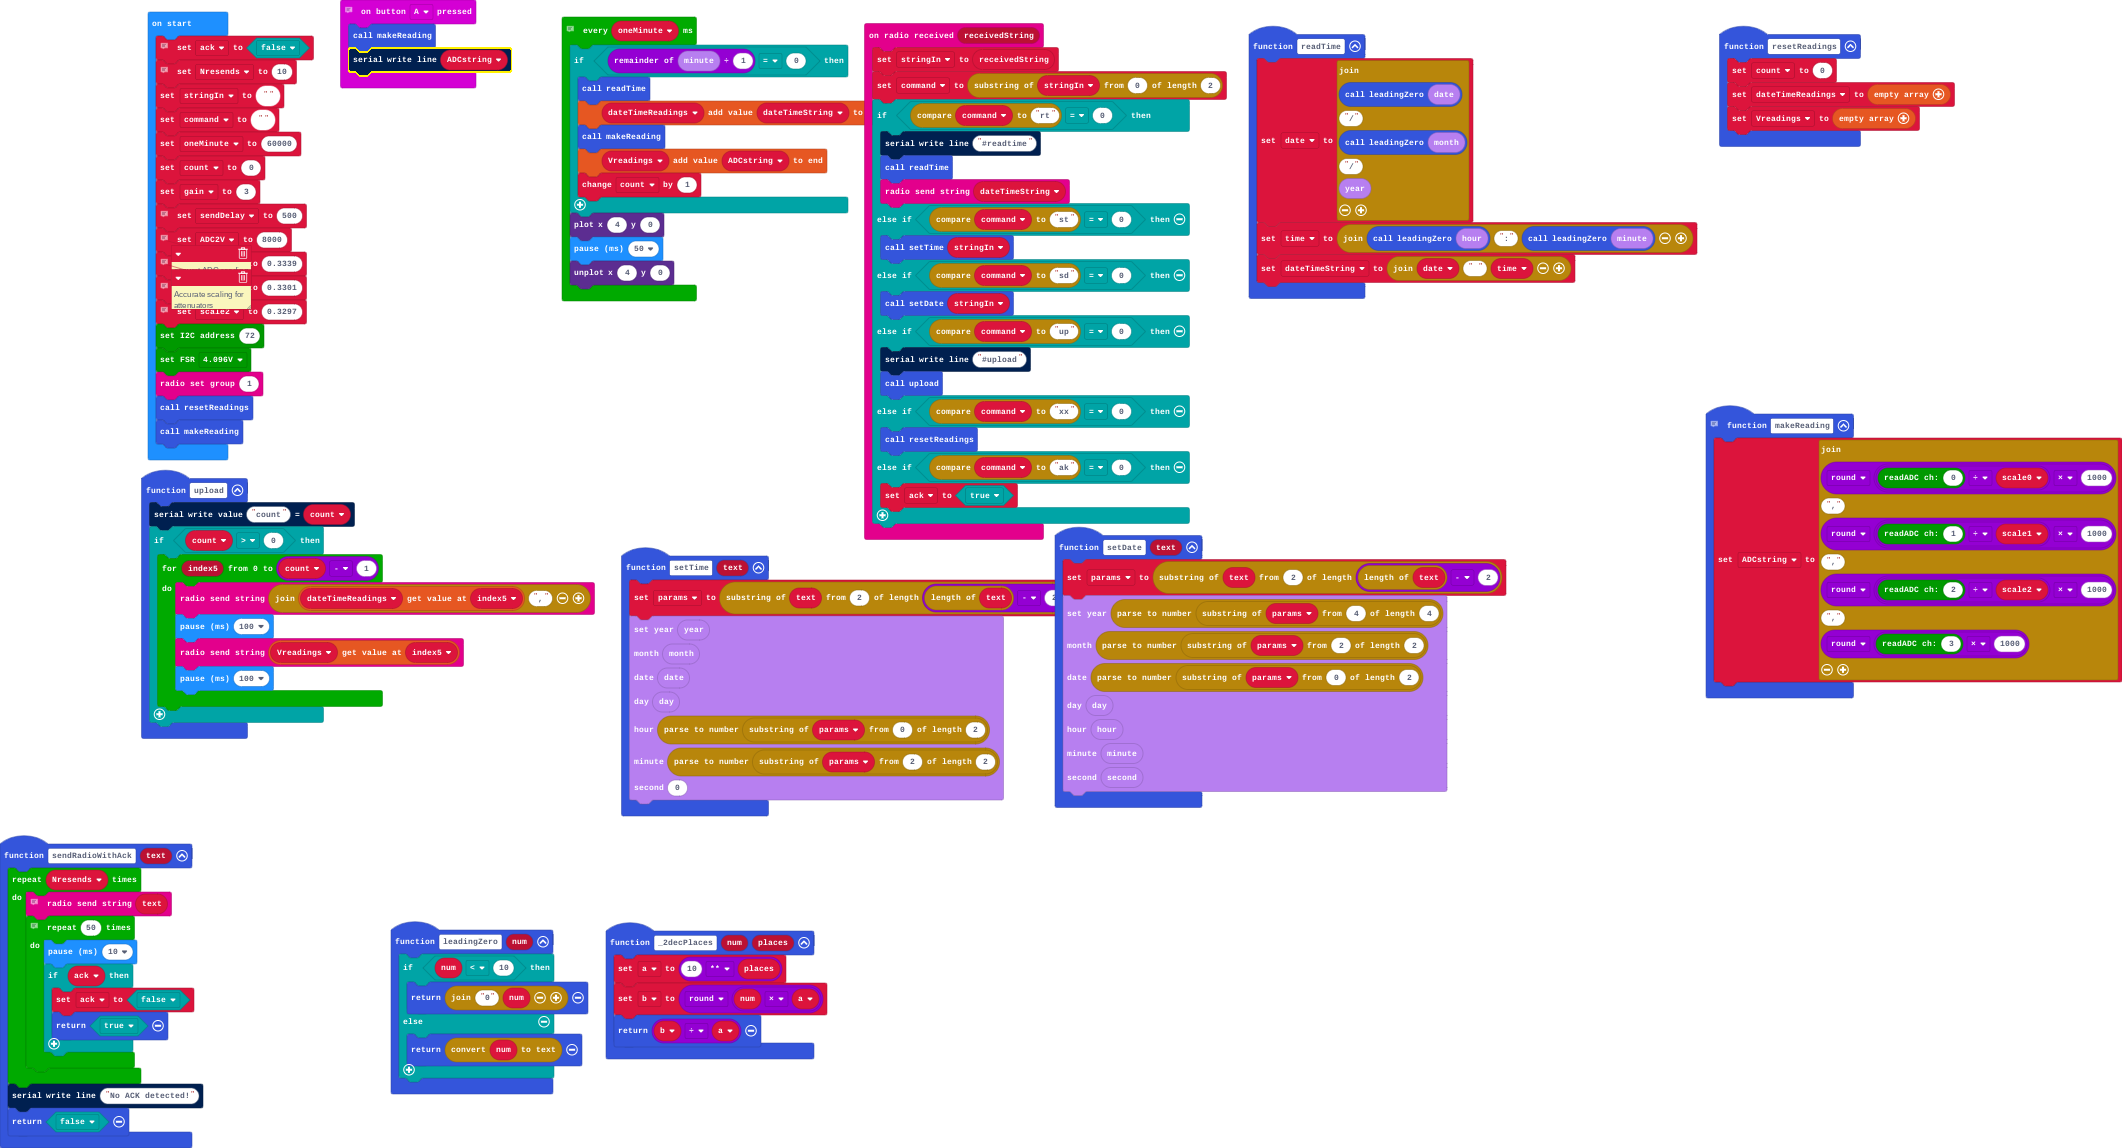
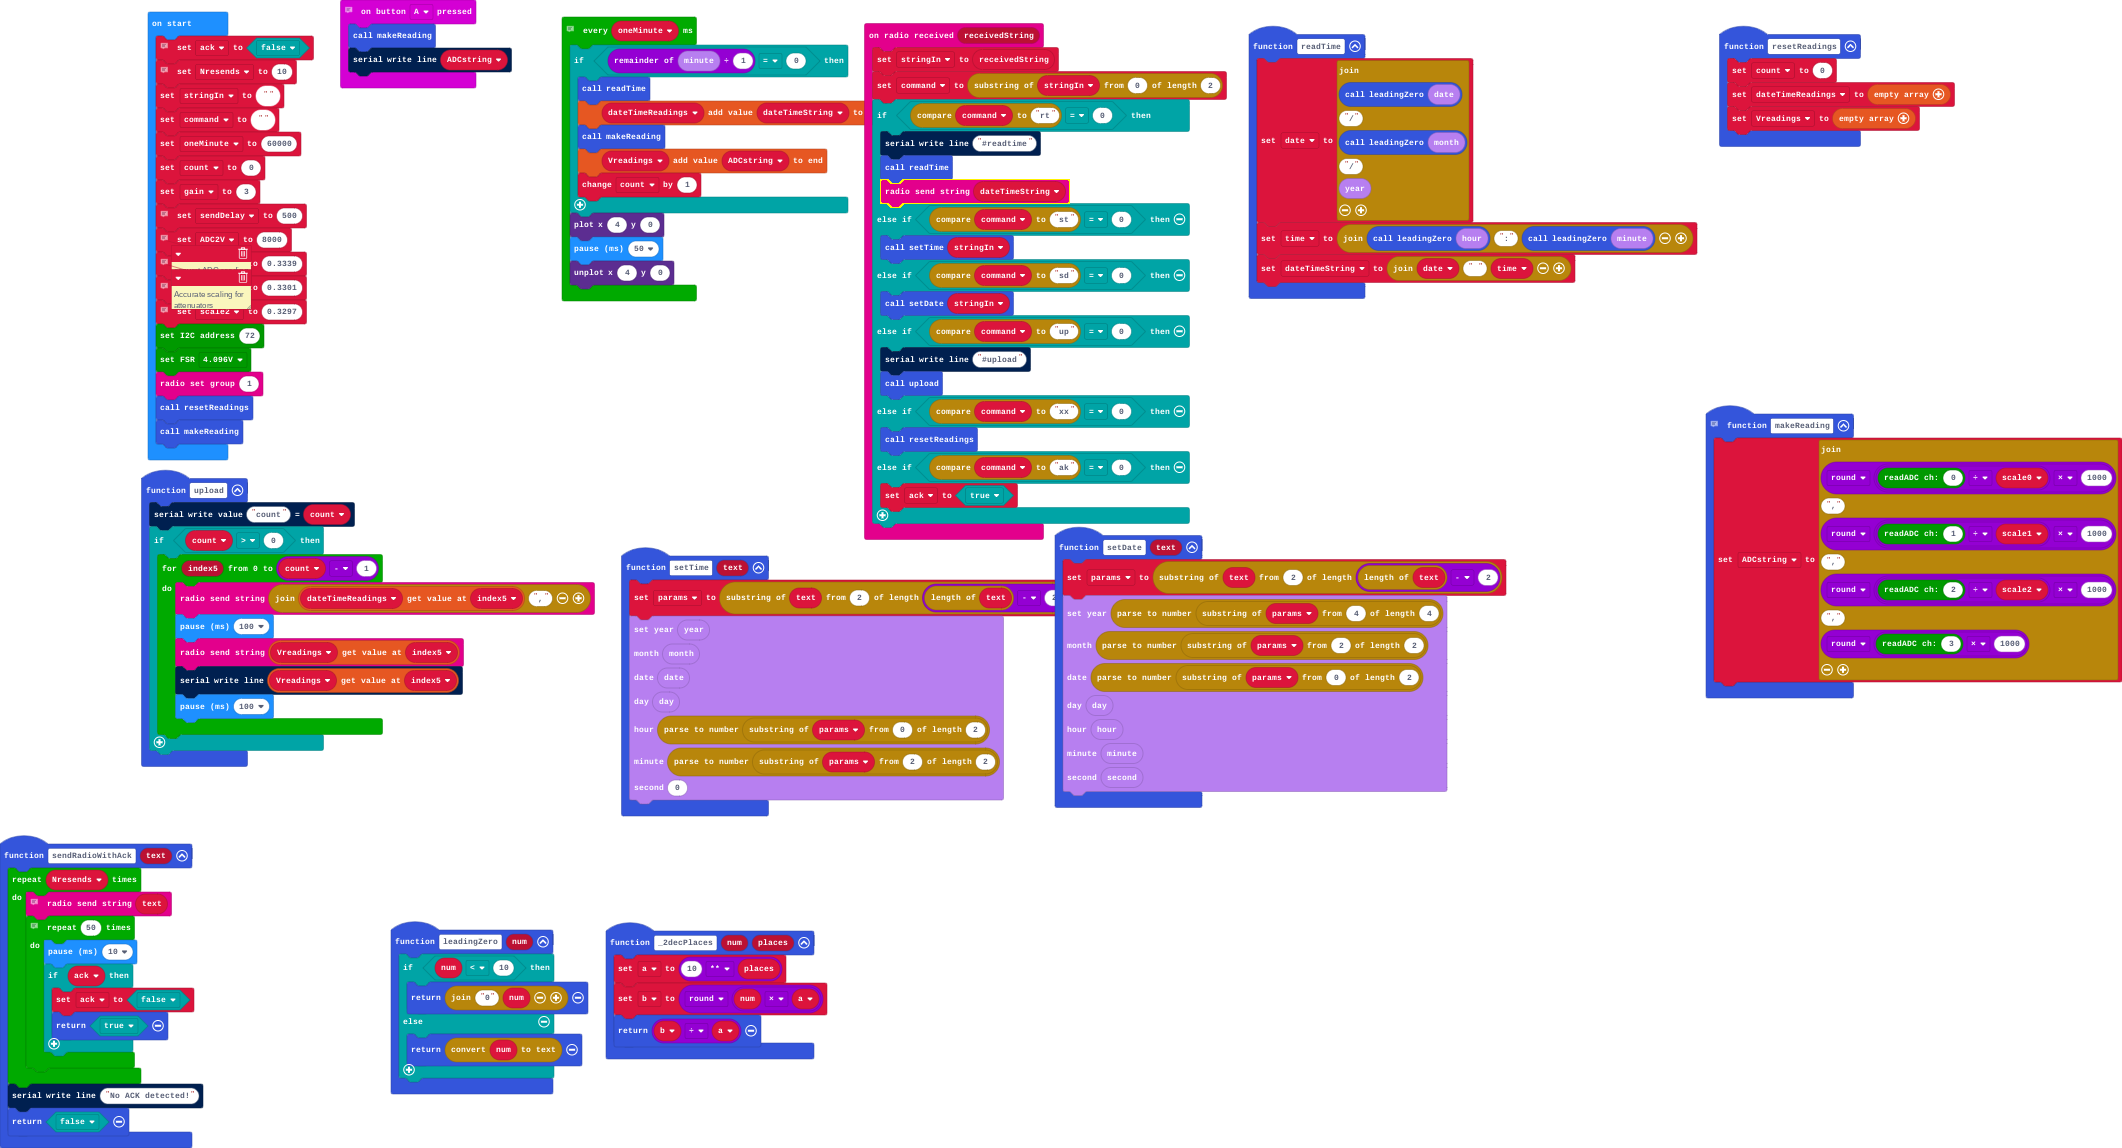
latest

Changed region(s): [[0.0622, 0.5793, 0.2177, 0.6707]]

diff --git a/main.ts b/main.ts
@@ -64,6 +64,7 @@ function upload () {
             radio.sendString("" + dateTimeReadings[index5] + ",")
             basic.pause(100)
             radio.sendString("" + (Vreadings[index5]))
+            serial.writeLine("" + (Vreadings[index5]))
             basic.pause(100)
         }
     }
